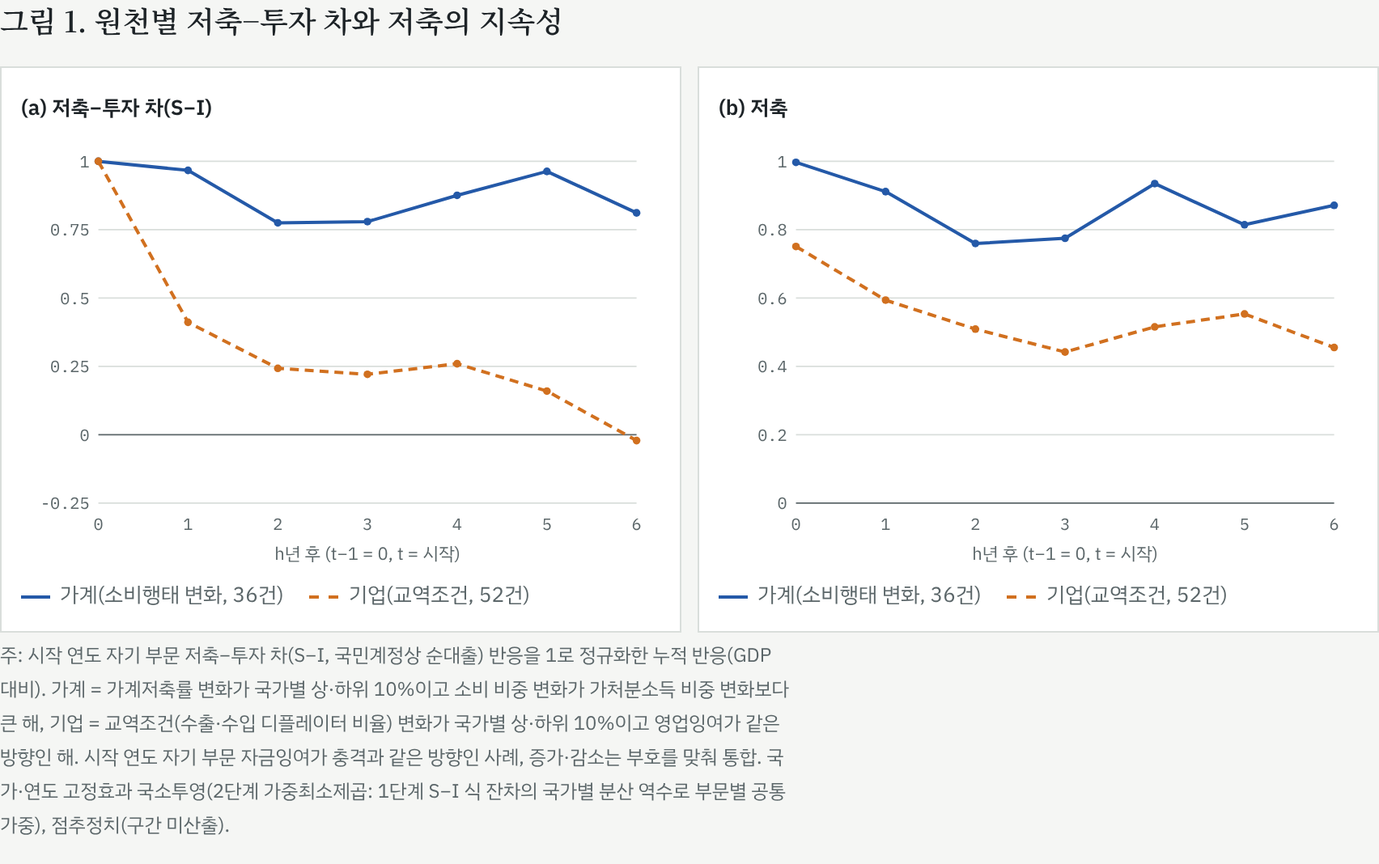
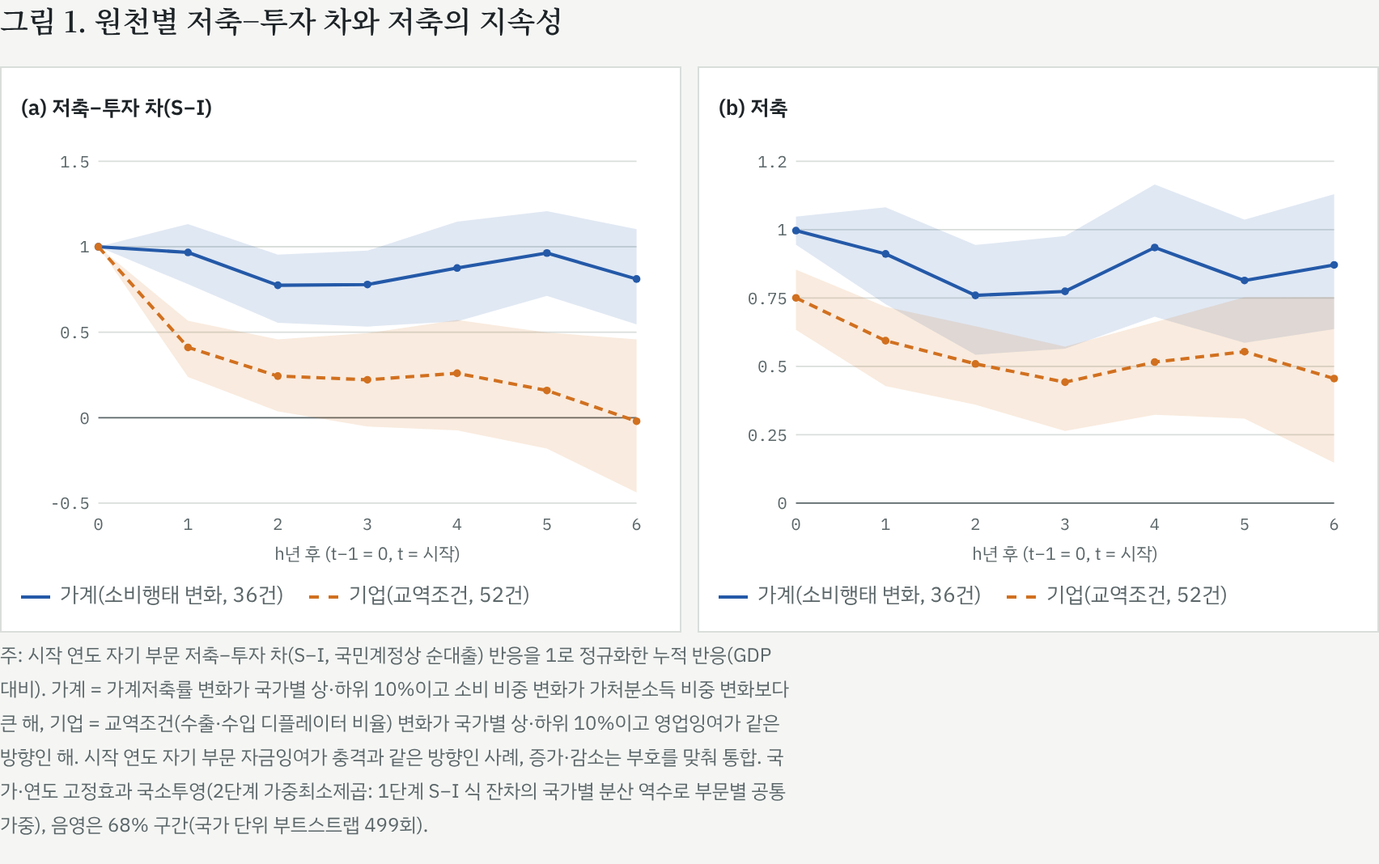
Finalize S−I-normalized report figures with bands (6- and 5-year)
Claude-Session: https://claude.ai/code/session_01QSFGVrqZTZBvgbV4CUsjF6

diff --git a/research/sector_saving_ca/output/ep_report_fgls_nl_figs.html b/research/sector_saving_ca/output/ep_report_fgls_nl_figs.html
@@ -82,4 +82,4 @@ footer { font-size: 13px; color: var(--muted); border-top: 1px solid var(--rule)
 svg .line.s1{stroke:#2459a8;fill:none;stroke-width:2.2} svg .band.s1{fill:#2459a8;opacity:.14} svg .dot.s1{fill:#2459a8}
 svg .line.s2{stroke:#d1701f;fill:none;stroke-width:2.2;stroke-dasharray:6 4} svg .band.s2{fill:#d1701f;opacity:.14} svg .dot.s2{fill:#d1701f}
 svg .line.s3{stroke:#3b8a4f;fill:none;stroke-width:2.2;stroke-dasharray:2 3} svg .dot.s3{fill:#3b8a4f}
-.sw.s1{border-color:#2459a8} .sw.s2{border-color:#d1701f;border-top-style:dashed} .sw.s3{border-color:#3b8a4f;border-top-style:dotted}</style></head><body><main style="max-width:900px"><section id="F1"><h2 style="font-size:18px">그림 1. 원천별 저축−투자 차와 저축의 지속성</h2><div style="display:grid;grid-template-columns:1fr 1fr;gap:10px"><figure><div class="panel-title">(a) 저축−투자 차(S−I)</div><svg viewBox="0 0 430 290" role="img" aria-label="(a) 저축−투자 차(S−I)"><line class="grid" x1="52" x2="414" y1="246.0" y2="246.0"/><text class="tick" x="46" y="250.0" text-anchor="end">-0.25</text><line class="zero" x1="52" x2="414" y1="200.0" y2="200.0"/><text class="tick" x="46" y="204.0" text-anchor="end">0</text><line class="grid" x1="52" x2="414" y1="154.0" y2="154.0"/><text class="tick" x="46" y="158.0" text-anchor="end">0.25</text><line class="grid" x1="52" x2="414" y1="108.0" y2="108.0"/><text class="tick" x="46" y="112.0" text-anchor="end">0.5</text><line class="grid" x1="52" x2="414" y1="62.0" y2="62.0"/><text class="tick" x="46" y="66.0" text-anchor="end">0.75</text><line class="grid" x1="52" x2="414" y1="16.0" y2="16.0"/><text class="tick" x="46" y="20.0" text-anchor="end">1</text><text class="tick" x="52.0" y="264" text-anchor="middle">0</text><text class="tick" x="112.3" y="264" text-anchor="middle">1</text><text class="tick" x="172.7" y="264" text-anchor="middle">2</text><text class="tick" x="233.0" y="264" text-anchor="middle">3</text><text class="tick" x="293.3" y="264" text-anchor="middle">4</text><text class="tick" x="353.7" y="264" text-anchor="middle">5</text><text class="tick" x="414.0" y="264" text-anchor="middle">6</text><text class="axis" x="233.0" y="284" text-anchor="middle">h년 후 (t−1 = 0, t = 시작)</text><polygon class="band s1" points="52.0,16.0 112.3,22.1 172.7,57.4 233.0,56.6 293.3,38.9 353.7,22.8 414.0,50.7 414.0,50.7 353.7,22.8 293.3,38.9 233.0,56.6 172.7,57.4 112.3,22.1 52.0,16.0"/><polygon class="band s2" points="52.0,16.0 112.3,124.3 172.7,155.3 233.0,159.3 293.3,152.2 353.7,170.6 414.0,203.9 414.0,203.9 353.7,170.6 293.3,152.2 233.0,159.3 172.7,155.3 112.3,124.3 52.0,16.0"/><polyline class="line s1" points="52.0,16.0 112.3,22.1 172.7,57.4 233.0,56.6 293.3,38.9 353.7,22.8 414.0,50.7"/><circle class="dot s1" cx="52.0" cy="16.0" r="2.6"/><circle class="dot s1" cx="112.3" cy="22.1" r="2.6"/><circle class="dot s1" cx="172.7" cy="57.4" r="2.6"/><circle class="dot s1" cx="233.0" cy="56.6" r="2.6"/><circle class="dot s1" cx="293.3" cy="38.9" r="2.6"/><circle class="dot s1" cx="353.7" cy="22.8" r="2.6"/><circle class="dot s1" cx="414.0" cy="50.7" r="2.6"/><polyline class="line s2" points="52.0,16.0 112.3,124.3 172.7,155.3 233.0,159.3 293.3,152.2 353.7,170.6 414.0,203.9"/><circle class="dot s2" cx="52.0" cy="16.0" r="2.6"/><circle class="dot s2" cx="112.3" cy="124.3" r="2.6"/><circle class="dot s2" cx="172.7" cy="155.3" r="2.6"/><circle class="dot s2" cx="233.0" cy="159.3" r="2.6"/><circle class="dot s2" cx="293.3" cy="152.2" r="2.6"/><circle class="dot s2" cx="353.7" cy="170.6" r="2.6"/><circle class="dot s2" cx="414.0" cy="203.9" r="2.6"/></svg><div class="legend"><span><i class="sw s1"></i>가계(소비행태 변화, 36건)</span><span><i class="sw s2"></i>기업(교역조건, 52건)</span></div></figure><figure><div class="panel-title">(b) 저축</div><svg viewBox="0 0 430 290" role="img" aria-label="(b) 저축"><line class="zero" x1="52" x2="414" y1="246.0" y2="246.0"/><text class="tick" x="46" y="250.0" text-anchor="end">0</text><line class="grid" x1="52" x2="414" y1="200.0" y2="200.0"/><text class="tick" x="46" y="204.0" text-anchor="end">0.2</text><line class="grid" x1="52" x2="414" y1="154.0" y2="154.0"/><text class="tick" x="46" y="158.0" text-anchor="end">0.4</text><line class="grid" x1="52" x2="414" y1="108.0" y2="108.0"/><text class="tick" x="46" y="112.0" text-anchor="end">0.6</text><line class="grid" x1="52" x2="414" y1="62.0" y2="62.0"/><text class="tick" x="46" y="66.0" text-anchor="end">0.8</text><line class="grid" x1="52" x2="414" y1="16.0" y2="16.0"/><text class="tick" x="46" y="20.0" text-anchor="end">1</text><text class="tick" x="52.0" y="264" text-anchor="middle">0</text><text class="tick" x="112.3" y="264" text-anchor="middle">1</text><text class="tick" x="172.7" y="264" text-anchor="middle">2</text><text class="tick" x="233.0" y="264" text-anchor="middle">3</text><text class="tick" x="293.3" y="264" text-anchor="middle">4</text><text class="tick" x="353.7" y="264" text-anchor="middle">5</text><text class="tick" x="414.0" y="264" text-anchor="middle">6</text><text class="axis" x="233.0" y="284" text-anchor="middle">h년 후 (t−1 = 0, t = 시작)</text><polygon class="band s1" points="52.0,16.7 112.3,36.4 172.7,71.3 233.0,67.8 293.3,31.0 353.7,58.7 414.0,45.6 414.0,45.6 353.7,58.7 293.3,31.0 233.0,67.8 172.7,71.3 112.3,36.4 52.0,16.7"/><polygon class="band s2" points="52.0,73.3 112.3,109.4 172.7,128.9 233.0,144.3 293.3,127.4 353.7,118.7 414.0,141.3 414.0,141.3 353.7,118.7 293.3,127.4 233.0,144.3 172.7,128.9 112.3,109.4 52.0,73.3"/><polyline class="line s1" points="52.0,16.7 112.3,36.4 172.7,71.3 233.0,67.8 293.3,31.0 353.7,58.7 414.0,45.6"/><circle class="dot s1" cx="52.0" cy="16.7" r="2.6"/><circle class="dot s1" cx="112.3" cy="36.4" r="2.6"/><circle class="dot s1" cx="172.7" cy="71.3" r="2.6"/><circle class="dot s1" cx="233.0" cy="67.8" r="2.6"/><circle class="dot s1" cx="293.3" cy="31.0" r="2.6"/><circle class="dot s1" cx="353.7" cy="58.7" r="2.6"/><circle class="dot s1" cx="414.0" cy="45.6" r="2.6"/><polyline class="line s2" points="52.0,73.3 112.3,109.4 172.7,128.9 233.0,144.3 293.3,127.4 353.7,118.7 414.0,141.3"/><circle class="dot s2" cx="52.0" cy="73.3" r="2.6"/><circle class="dot s2" cx="112.3" cy="109.4" r="2.6"/><circle class="dot s2" cx="172.7" cy="128.9" r="2.6"/><circle class="dot s2" cx="233.0" cy="144.3" r="2.6"/><circle class="dot s2" cx="293.3" cy="127.4" r="2.6"/><circle class="dot s2" cx="353.7" cy="118.7" r="2.6"/><circle class="dot s2" cx="414.0" cy="141.3" r="2.6"/></svg><div class="legend"><span><i class="sw s1"></i>가계(소비행태 변화, 36건)</span><span><i class="sw s2"></i>기업(교역조건, 52건)</span></div></figure></div><p class="ci" style="font-size:12px">주: 시작 연도 자기 부문 저축−투자 차(S−I, 국민계정상 순대출) 반응을 1로 정규화한 누적 반응(GDP 대비). 가계 = 가계저축률 변화가 국가별 상·하위 10%이고 소비 비중 변화가 가처분소득 비중 변화보다 큰 해, 기업 = 교역조건(수출·수입 디플레이터 비율) 변화가 국가별 상·하위 10%이고 영업잉여가 같은 방향인 해. 시작 연도 자기 부문 자금잉여가 충격과 같은 방향인 사례, 증가·감소는 부호를 맞춰 통합. 국가·연도 고정효과 국소투영(2단계 가중최소제곱: 1단계 S−I 식 잔차의 국가별 분산 역수로 부문별 공통 가중), 점추정치(구간 미산출).</p></section><section id="F2"><h2 style="font-size:18px">그림 2. 기업 흑자의 해소 경로(배당·투자)와 가계 소비행태</h2><div style="display:grid;grid-template-columns:1fr 1fr;gap:10px"><figure><div class="panel-title">(a) 기업: 영업잉여·순배당</div><svg viewBox="0 0 430 290" role="img" aria-label="(a) 기업: 영업잉여·순배당"><line class="grid" x1="52" x2="414" y1="246.0" y2="246.0"/><text class="tick" x="46" y="250.0" text-anchor="end">-0.25</text><line class="zero" x1="52" x2="414" y1="200.0" y2="200.0"/><text class="tick" x="46" y="204.0" text-anchor="end">0</text><line class="grid" x1="52" x2="414" y1="154.0" y2="154.0"/><text class="tick" x="46" y="158.0" text-anchor="end">0.25</text><line class="grid" x1="52" x2="414" y1="108.0" y2="108.0"/><text class="tick" x="46" y="112.0" text-anchor="end">0.5</text><line class="grid" x1="52" x2="414" y1="62.0" y2="62.0"/><text class="tick" x="46" y="66.0" text-anchor="end">0.75</text><line class="grid" x1="52" x2="414" y1="16.0" y2="16.0"/><text class="tick" x="46" y="20.0" text-anchor="end">1</text><text class="tick" x="52.0" y="264" text-anchor="middle">0</text><text class="tick" x="112.3" y="264" text-anchor="middle">1</text><text class="tick" x="172.7" y="264" text-anchor="middle">2</text><text class="tick" x="233.0" y="264" text-anchor="middle">3</text><text class="tick" x="293.3" y="264" text-anchor="middle">4</text><text class="tick" x="353.7" y="264" text-anchor="middle">5</text><text class="tick" x="414.0" y="264" text-anchor="middle">6</text><text class="axis" x="233.0" y="284" text-anchor="middle">h년 후 (t−1 = 0, t = 시작)</text><polygon class="band s1" points="52.0,49.0 112.3,84.3 172.7,91.8 233.0,110.6 293.3,65.5 353.7,54.7 414.0,90.9 414.0,90.9 353.7,54.7 293.3,65.5 233.0,110.6 172.7,91.8 112.3,84.3 52.0,49.0"/><polygon class="band s2" points="52.0,207.1 112.3,177.1 172.7,184.7 233.0,191.0 293.3,159.9 353.7,164.7 414.0,165.6 414.0,165.6 353.7,164.7 293.3,159.9 233.0,191.0 172.7,184.7 112.3,177.1 52.0,207.1"/><polyline class="line s1" points="52.0,49.0 112.3,84.3 172.7,91.8 233.0,110.6 293.3,65.5 353.7,54.7 414.0,90.9"/><circle class="dot s1" cx="52.0" cy="49.0" r="2.6"/><circle class="dot s1" cx="112.3" cy="84.3" r="2.6"/><circle class="dot s1" cx="172.7" cy="91.8" r="2.6"/><circle class="dot s1" cx="233.0" cy="110.6" r="2.6"/><circle class="dot s1" cx="293.3" cy="65.5" r="2.6"/><circle class="dot s1" cx="353.7" cy="54.7" r="2.6"/><circle class="dot s1" cx="414.0" cy="90.9" r="2.6"/><polyline class="line s2" points="52.0,207.1 112.3,177.1 172.7,184.7 233.0,191.0 293.3,159.9 353.7,164.7 414.0,165.6"/><circle class="dot s2" cx="52.0" cy="207.1" r="2.6"/><circle class="dot s2" cx="112.3" cy="177.1" r="2.6"/><circle class="dot s2" cx="172.7" cy="184.7" r="2.6"/><circle class="dot s2" cx="233.0" cy="191.0" r="2.6"/><circle class="dot s2" cx="293.3" cy="159.9" r="2.6"/><circle class="dot s2" cx="353.7" cy="164.7" r="2.6"/><circle class="dot s2" cx="414.0" cy="165.6" r="2.6"/></svg><div class="legend"><span><i class="sw s1"></i>영업잉여</span><span><i class="sw s2"></i>순배당 지급(지급 − 수취)</span></div></figure><figure><div class="panel-title">(b) 기업: 투자</div><svg viewBox="0 0 430 290" role="img" aria-label="(b) 기업: 투자"><line class="grid" x1="52" x2="414" y1="246.0" y2="246.0"/><text class="tick" x="46" y="250.0" text-anchor="end">-0.4</text><line class="grid" x1="52" x2="414" y1="200.0" y2="200.0"/><text class="tick" x="46" y="204.0" text-anchor="end">-0.2</text><line class="zero" x1="52" x2="414" y1="154.0" y2="154.0"/><text class="tick" x="46" y="158.0" text-anchor="end">0</text><line class="grid" x1="52" x2="414" y1="108.0" y2="108.0"/><text class="tick" x="46" y="112.0" text-anchor="end">0.2</text><line class="grid" x1="52" x2="414" y1="62.0" y2="62.0"/><text class="tick" x="46" y="66.0" text-anchor="end">0.4</text><line class="grid" x1="52" x2="414" y1="16.0" y2="16.0"/><text class="tick" x="46" y="20.0" text-anchor="end">0.6</text><text class="tick" x="52.0" y="264" text-anchor="middle">0</text><text class="tick" x="112.3" y="264" text-anchor="middle">1</text><text class="tick" x="172.7" y="264" text-anchor="middle">2</text><text class="tick" x="233.0" y="264" text-anchor="middle">3</text><text class="tick" x="293.3" y="264" text-anchor="middle">4</text><text class="tick" x="353.7" y="264" text-anchor="middle">5</text><text class="tick" x="414.0" y="264" text-anchor="middle">6</text><text class="axis" x="233.0" y="284" text-anchor="middle">h년 후 (t−1 = 0, t = 시작)</text><polygon class="band s1" points="52.0,211.3 112.3,112.0 172.7,92.8 233.0,103.2 293.3,95.1 353.7,63.4 414.0,44.4 414.0,44.4 353.7,63.4 293.3,95.1 233.0,103.2 172.7,92.8 112.3,112.0 52.0,211.3"/><polygon class="band s2" points="52.0,169.0 112.3,146.5 172.7,106.0 233.0,107.7 293.3,111.6 353.7,80.3 414.0,63.6 414.0,63.6 353.7,80.3 293.3,111.6 233.0,107.7 172.7,106.0 112.3,146.5 52.0,169.0"/><polyline class="line s1" points="52.0,211.3 112.3,112.0 172.7,92.8 233.0,103.2 293.3,95.1 353.7,63.4 414.0,44.4"/><circle class="dot s1" cx="52.0" cy="211.3" r="2.6"/><circle class="dot s1" cx="112.3" cy="112.0" r="2.6"/><circle class="dot s1" cx="172.7" cy="92.8" r="2.6"/><circle class="dot s1" cx="233.0" cy="103.2" r="2.6"/><circle class="dot s1" cx="293.3" cy="95.1" r="2.6"/><circle class="dot s1" cx="353.7" cy="63.4" r="2.6"/><circle class="dot s1" cx="414.0" cy="44.4" r="2.6"/><polyline class="line s2" points="52.0,169.0 112.3,146.5 172.7,106.0 233.0,107.7 293.3,111.6 353.7,80.3 414.0,63.6"/><circle class="dot s2" cx="52.0" cy="169.0" r="2.6"/><circle class="dot s2" cx="112.3" cy="146.5" r="2.6"/><circle class="dot s2" cx="172.7" cy="106.0" r="2.6"/><circle class="dot s2" cx="233.0" cy="107.7" r="2.6"/><circle class="dot s2" cx="293.3" cy="111.6" r="2.6"/><circle class="dot s2" cx="353.7" cy="80.3" r="2.6"/><circle class="dot s2" cx="414.0" cy="63.6" r="2.6"/></svg><div class="legend"><span><i class="sw s1"></i>투자 등(재고·토지 포함)</span><span><i class="sw s2"></i>고정투자</span></div></figure><figure><div class="panel-title">(c) 가계: 가처분소득·소비</div><svg viewBox="0 0 430 290" role="img" aria-label="(c) 가계: 가처분소득·소비"><line class="grid" x1="52" x2="414" y1="246.0" y2="246.0"/><text class="tick" x="46" y="250.0" text-anchor="end">-1</text><line class="grid" x1="52" x2="414" y1="207.7" y2="207.7"/><text class="tick" x="46" y="211.7" text-anchor="end">-0.75</text><line class="grid" x1="52" x2="414" y1="169.3" y2="169.3"/><text class="tick" x="46" y="173.3" text-anchor="end">-0.5</text><line class="grid" x1="52" x2="414" y1="131.0" y2="131.0"/><text class="tick" x="46" y="135.0" text-anchor="end">-0.25</text><line class="zero" x1="52" x2="414" y1="92.7" y2="92.7"/><text class="tick" x="46" y="96.7" text-anchor="end">0</text><line class="grid" x1="52" x2="414" y1="54.3" y2="54.3"/><text class="tick" x="46" y="58.3" text-anchor="end">0.25</text><line class="grid" x1="52" x2="414" y1="16.0" y2="16.0"/><text class="tick" x="46" y="20.0" text-anchor="end">0.5</text><text class="tick" x="52.0" y="264" text-anchor="middle">0</text><text class="tick" x="112.3" y="264" text-anchor="middle">1</text><text class="tick" x="172.7" y="264" text-anchor="middle">2</text><text class="tick" x="233.0" y="264" text-anchor="middle">3</text><text class="tick" x="293.3" y="264" text-anchor="middle">4</text><text class="tick" x="353.7" y="264" text-anchor="middle">5</text><text class="tick" x="414.0" y="264" text-anchor="middle">6</text><text class="axis" x="233.0" y="284" text-anchor="middle">h년 후 (t−1 = 0, t = 시작)</text><polygon class="band s1" points="52.0,70.4 112.3,77.1 172.7,86.5 233.0,79.1 293.3,35.7 353.7,50.8 414.0,65.3 414.0,65.3 353.7,50.8 293.3,35.7 233.0,79.1 172.7,86.5 112.3,77.1 52.0,70.4"/><polygon class="band s2" points="52.0,210.4 112.3,205.5 172.7,193.0 233.0,184.2 293.3,162.4 353.7,169.7 414.0,186.9 414.0,186.9 353.7,169.7 293.3,162.4 233.0,184.2 172.7,193.0 112.3,205.5 52.0,210.4"/><polyline class="line s1" points="52.0,70.4 112.3,77.1 172.7,86.5 233.0,79.1 293.3,35.7 353.7,50.8 414.0,65.3"/><circle class="dot s1" cx="52.0" cy="70.4" r="2.6"/><circle class="dot s1" cx="112.3" cy="77.1" r="2.6"/><circle class="dot s1" cx="172.7" cy="86.5" r="2.6"/><circle class="dot s1" cx="233.0" cy="79.1" r="2.6"/><circle class="dot s1" cx="293.3" cy="35.7" r="2.6"/><circle class="dot s1" cx="353.7" cy="50.8" r="2.6"/><circle class="dot s1" cx="414.0" cy="65.3" r="2.6"/><polyline class="line s2" points="52.0,210.4 112.3,205.5 172.7,193.0 233.0,184.2 293.3,162.4 353.7,169.7 414.0,186.9"/><circle class="dot s2" cx="52.0" cy="210.4" r="2.6"/><circle class="dot s2" cx="112.3" cy="205.5" r="2.6"/><circle class="dot s2" cx="172.7" cy="193.0" r="2.6"/><circle class="dot s2" cx="233.0" cy="184.2" r="2.6"/><circle class="dot s2" cx="293.3" cy="162.4" r="2.6"/><circle class="dot s2" cx="353.7" cy="169.7" r="2.6"/><circle class="dot s2" cx="414.0" cy="186.9" r="2.6"/></svg><div class="legend"><span><i class="sw s1"></i>가처분소득</span><span><i class="sw s2"></i>소비</span></div></figure><figure><div class="panel-title">(d) 가계: 투자</div><svg viewBox="0 0 430 290" role="img" aria-label="(d) 가계: 투자"><line class="grid" x1="52" x2="414" y1="246.0" y2="246.0"/><text class="tick" x="46" y="250.0" text-anchor="end">-0.3</text><line class="grid" x1="52" x2="414" y1="207.7" y2="207.7"/><text class="tick" x="46" y="211.7" text-anchor="end">-0.2</text><line class="grid" x1="52" x2="414" y1="169.3" y2="169.3"/><text class="tick" x="46" y="173.3" text-anchor="end">-0.1</text><line class="zero" x1="52" x2="414" y1="131.0" y2="131.0"/><text class="tick" x="46" y="135.0" text-anchor="end">0</text><line class="grid" x1="52" x2="414" y1="92.7" y2="92.7"/><text class="tick" x="46" y="96.7" text-anchor="end">0.1</text><line class="grid" x1="52" x2="414" y1="54.3" y2="54.3"/><text class="tick" x="46" y="58.3" text-anchor="end">0.2</text><line class="grid" x1="52" x2="414" y1="16.0" y2="16.0"/><text class="tick" x="46" y="20.0" text-anchor="end">0.3</text><text class="tick" x="52.0" y="264" text-anchor="middle">0</text><text class="tick" x="112.3" y="264" text-anchor="middle">1</text><text class="tick" x="172.7" y="264" text-anchor="middle">2</text><text class="tick" x="233.0" y="264" text-anchor="middle">3</text><text class="tick" x="293.3" y="264" text-anchor="middle">4</text><text class="tick" x="353.7" y="264" text-anchor="middle">5</text><text class="tick" x="414.0" y="264" text-anchor="middle">6</text><text class="axis" x="233.0" y="284" text-anchor="middle">h년 후 (t−1 = 0, t = 시작)</text><polygon class="band s1" points="52.0,132.2 112.3,152.3 172.7,136.9 233.0,132.9 293.3,108.4 353.7,188.1 414.0,108.1 414.0,108.1 353.7,188.1 293.3,108.4 233.0,132.9 172.7,136.9 112.3,152.3 52.0,132.2"/><polygon class="band s2" points="52.0,119.9 112.3,125.8 172.7,127.2 233.0,132.4 293.3,110.1 353.7,165.3 414.0,143.6 414.0,143.6 353.7,165.3 293.3,110.1 233.0,132.4 172.7,127.2 112.3,125.8 52.0,119.9"/><polyline class="line s1" points="52.0,132.2 112.3,152.3 172.7,136.9 233.0,132.9 293.3,108.4 353.7,188.1 414.0,108.1"/><circle class="dot s1" cx="52.0" cy="132.2" r="2.6"/><circle class="dot s1" cx="112.3" cy="152.3" r="2.6"/><circle class="dot s1" cx="172.7" cy="136.9" r="2.6"/><circle class="dot s1" cx="233.0" cy="132.9" r="2.6"/><circle class="dot s1" cx="293.3" cy="108.4" r="2.6"/><circle class="dot s1" cx="353.7" cy="188.1" r="2.6"/><circle class="dot s1" cx="414.0" cy="108.1" r="2.6"/><polyline class="line s2" points="52.0,119.9 112.3,125.8 172.7,127.2 233.0,132.4 293.3,110.1 353.7,165.3 414.0,143.6"/><circle class="dot s2" cx="52.0" cy="119.9" r="2.6"/><circle class="dot s2" cx="112.3" cy="125.8" r="2.6"/><circle class="dot s2" cx="172.7" cy="127.2" r="2.6"/><circle class="dot s2" cx="233.0" cy="132.4" r="2.6"/><circle class="dot s2" cx="293.3" cy="110.1" r="2.6"/><circle class="dot s2" cx="353.7" cy="165.3" r="2.6"/><circle class="dot s2" cx="414.0" cy="143.6" r="2.6"/></svg><div class="legend"><span><i class="sw s1"></i>투자 등(재고·토지 포함)</span><span><i class="sw s2"></i>고정투자</span></div></figure></div><p class="ci" style="font-size:12px">주: 시작 연도 자기 부문 저축−투자 차(S−I, 국민계정상 순대출) 반응을 1로 정규화한 누적 반응(GDP 대비). 가계 = 가계저축률 변화가 국가별 상·하위 10%이고 소비 비중 변화가 가처분소득 비중 변화보다 큰 해, 기업 = 교역조건(수출·수입 디플레이터 비율) 변화가 국가별 상·하위 10%이고 영업잉여가 같은 방향인 해. 시작 연도 자기 부문 자금잉여가 충격과 같은 방향인 사례, 증가·감소는 부호를 맞춰 통합. 국가·연도 고정효과 국소투영(2단계 가중최소제곱: 1단계 S−I 식 잔차의 국가별 분산 역수로 부문별 공통 가중), 점추정치(구간 미산출).</p></section></main></body></html>
+.sw.s1{border-color:#2459a8} .sw.s2{border-color:#d1701f;border-top-style:dashed} .sw.s3{border-color:#3b8a4f;border-top-style:dotted}</style></head><body><main style="max-width:900px"><section id="F1"><h2 style="font-size:18px">그림 1. 원천별 저축−투자 차와 저축의 지속성</h2><div style="display:grid;grid-template-columns:1fr 1fr;gap:10px"><figure><div class="panel-title">(a) 저축−투자 차(S−I)</div><svg viewBox="0 0 430 290" role="img" aria-label="(a) 저축−투자 차(S−I)"><line class="grid" x1="52" x2="414" y1="246.0" y2="246.0"/><text class="tick" x="46" y="250.0" text-anchor="end">-0.5</text><line class="zero" x1="52" x2="414" y1="188.5" y2="188.5"/><text class="tick" x="46" y="192.5" text-anchor="end">0</text><line class="grid" x1="52" x2="414" y1="131.0" y2="131.0"/><text class="tick" x="46" y="135.0" text-anchor="end">0.5</text><line class="grid" x1="52" x2="414" y1="73.5" y2="73.5"/><text class="tick" x="46" y="77.5" text-anchor="end">1</text><line class="grid" x1="52" x2="414" y1="16.0" y2="16.0"/><text class="tick" x="46" y="20.0" text-anchor="end">1.5</text><text class="tick" x="52.0" y="264" text-anchor="middle">0</text><text class="tick" x="112.3" y="264" text-anchor="middle">1</text><text class="tick" x="172.7" y="264" text-anchor="middle">2</text><text class="tick" x="233.0" y="264" text-anchor="middle">3</text><text class="tick" x="293.3" y="264" text-anchor="middle">4</text><text class="tick" x="353.7" y="264" text-anchor="middle">5</text><text class="tick" x="414.0" y="264" text-anchor="middle">6</text><text class="axis" x="233.0" y="284" text-anchor="middle">h년 후 (t−1 = 0, t = 시작)</text><polygon class="band s1" points="52.0,73.5 112.3,58.2 172.7,78.8 233.0,76.1 293.3,56.6 353.7,49.5 414.0,61.7 414.0,125.7 353.7,106.5 293.3,123.7 233.0,127.2 172.7,124.7 112.3,98.7 52.0,73.5"/><polygon class="band s2" points="52.0,73.5 112.3,123.3 172.7,135.8 233.0,131.6 293.3,122.7 353.7,131.2 414.0,135.8 414.0,238.8 353.7,209.3 293.3,197.0 233.0,194.4 172.7,184.3 112.3,161.1 52.0,73.5"/><polyline class="line s1" points="52.0,73.5 112.3,77.3 172.7,99.4 233.0,98.9 293.3,87.8 353.7,77.7 414.0,95.2"/><circle class="dot s1" cx="52.0" cy="73.5" r="2.6"/><circle class="dot s1" cx="112.3" cy="77.3" r="2.6"/><circle class="dot s1" cx="172.7" cy="99.4" r="2.6"/><circle class="dot s1" cx="233.0" cy="98.9" r="2.6"/><circle class="dot s1" cx="293.3" cy="87.8" r="2.6"/><circle class="dot s1" cx="353.7" cy="77.7" r="2.6"/><circle class="dot s1" cx="414.0" cy="95.2" r="2.6"/><polyline class="line s2" points="52.0,73.5 112.3,141.2 172.7,160.5 233.0,163.0 293.3,158.6 353.7,170.2 414.0,190.9"/><circle class="dot s2" cx="52.0" cy="73.5" r="2.6"/><circle class="dot s2" cx="112.3" cy="141.2" r="2.6"/><circle class="dot s2" cx="172.7" cy="160.5" r="2.6"/><circle class="dot s2" cx="233.0" cy="163.0" r="2.6"/><circle class="dot s2" cx="293.3" cy="158.6" r="2.6"/><circle class="dot s2" cx="353.7" cy="170.2" r="2.6"/><circle class="dot s2" cx="414.0" cy="190.9" r="2.6"/></svg><div class="legend"><span><i class="sw s1"></i>가계(소비행태 변화, 36건)</span><span><i class="sw s2"></i>기업(교역조건, 52건)</span></div></figure><figure><div class="panel-title">(b) 저축</div><svg viewBox="0 0 430 290" role="img" aria-label="(b) 저축"><line class="zero" x1="52" x2="414" y1="246.0" y2="246.0"/><text class="tick" x="46" y="250.0" text-anchor="end">0</text><line class="grid" x1="52" x2="414" y1="200.0" y2="200.0"/><text class="tick" x="46" y="204.0" text-anchor="end">0.25</text><line class="grid" x1="52" x2="414" y1="154.0" y2="154.0"/><text class="tick" x="46" y="158.0" text-anchor="end">0.5</text><line class="grid" x1="52" x2="414" y1="108.0" y2="108.0"/><text class="tick" x="46" y="112.0" text-anchor="end">0.75</text><line class="grid" x1="52" x2="414" y1="62.0" y2="62.0"/><text class="tick" x="46" y="66.0" text-anchor="end">1</text><line class="grid" x1="52" x2="414" y1="16.0" y2="16.0"/><text class="tick" x="46" y="20.0" text-anchor="end">1.2</text><text class="tick" x="52.0" y="264" text-anchor="middle">0</text><text class="tick" x="112.3" y="264" text-anchor="middle">1</text><text class="tick" x="172.7" y="264" text-anchor="middle">2</text><text class="tick" x="233.0" y="264" text-anchor="middle">3</text><text class="tick" x="293.3" y="264" text-anchor="middle">4</text><text class="tick" x="353.7" y="264" text-anchor="middle">5</text><text class="tick" x="414.0" y="264" text-anchor="middle">6</text><text class="axis" x="233.0" y="284" text-anchor="middle">h년 후 (t−1 = 0, t = 시작)</text><polygon class="band s1" points="52.0,53.2 112.3,47.0 172.7,72.3 233.0,66.3 293.3,31.6 353.7,55.2 414.0,38.1 414.0,128.8 353.7,138.1 293.3,120.6 233.0,142.0 172.7,146.1 112.3,112.1 52.0,72.1"/><polygon class="band s2" points="52.0,88.8 112.3,113.9 172.7,127.0 233.0,140.7 293.3,124.2 353.7,107.5 414.0,107.4 414.0,218.8 353.7,189.1 293.3,186.5 233.0,197.5 172.7,179.8 112.3,167.2 52.0,129.4"/><polyline class="line s1" points="52.0,62.6 112.3,78.3 172.7,106.2 233.0,103.5 293.3,74.0 353.7,96.2 414.0,85.7"/><circle class="dot s1" cx="52.0" cy="62.6" r="2.6"/><circle class="dot s1" cx="112.3" cy="78.3" r="2.6"/><circle class="dot s1" cx="172.7" cy="106.2" r="2.6"/><circle class="dot s1" cx="233.0" cy="103.5" r="2.6"/><circle class="dot s1" cx="293.3" cy="74.0" r="2.6"/><circle class="dot s1" cx="353.7" cy="96.2" r="2.6"/><circle class="dot s1" cx="414.0" cy="85.7" r="2.6"/><polyline class="line s2" points="52.0,107.9 112.3,136.7 172.7,152.3 233.0,164.6 293.3,151.1 353.7,144.1 414.0,162.2"/><circle class="dot s2" cx="52.0" cy="107.9" r="2.6"/><circle class="dot s2" cx="112.3" cy="136.7" r="2.6"/><circle class="dot s2" cx="172.7" cy="152.3" r="2.6"/><circle class="dot s2" cx="233.0" cy="164.6" r="2.6"/><circle class="dot s2" cx="293.3" cy="151.1" r="2.6"/><circle class="dot s2" cx="353.7" cy="144.1" r="2.6"/><circle class="dot s2" cx="414.0" cy="162.2" r="2.6"/></svg><div class="legend"><span><i class="sw s1"></i>가계(소비행태 변화, 36건)</span><span><i class="sw s2"></i>기업(교역조건, 52건)</span></div></figure></div><p class="ci" style="font-size:12px">주: 시작 연도 자기 부문 저축−투자 차(S−I, 국민계정상 순대출) 반응을 1로 정규화한 누적 반응(GDP 대비). 가계 = 가계저축률 변화가 국가별 상·하위 10%이고 소비 비중 변화가 가처분소득 비중 변화보다 큰 해, 기업 = 교역조건(수출·수입 디플레이터 비율) 변화가 국가별 상·하위 10%이고 영업잉여가 같은 방향인 해. 시작 연도 자기 부문 자금잉여가 충격과 같은 방향인 사례, 증가·감소는 부호를 맞춰 통합. 국가·연도 고정효과 국소투영(2단계 가중최소제곱: 1단계 S−I 식 잔차의 국가별 분산 역수로 부문별 공통 가중), 음영은 68% 구간(국가 단위 부트스트랩 499회).</p></section><section id="F2"><h2 style="font-size:18px">그림 2. 기업 흑자의 해소 경로(배당·투자)와 가계 소비행태</h2><div style="display:grid;grid-template-columns:1fr 1fr;gap:10px"><figure><div class="panel-title">(a) 기업: 영업잉여·순배당</div><svg viewBox="0 0 430 290" role="img" aria-label="(a) 기업: 영업잉여·순배당"><line class="grid" x1="52" x2="414" y1="246.0" y2="246.0"/><text class="tick" x="46" y="250.0" text-anchor="end">-0.25</text><line class="zero" x1="52" x2="414" y1="207.7" y2="207.7"/><text class="tick" x="46" y="211.7" text-anchor="end">0</text><line class="grid" x1="52" x2="414" y1="169.3" y2="169.3"/><text class="tick" x="46" y="173.3" text-anchor="end">0.25</text><line class="grid" x1="52" x2="414" y1="131.0" y2="131.0"/><text class="tick" x="46" y="135.0" text-anchor="end">0.5</text><line class="grid" x1="52" x2="414" y1="92.7" y2="92.7"/><text class="tick" x="46" y="96.7" text-anchor="end">0.75</text><line class="grid" x1="52" x2="414" y1="54.3" y2="54.3"/><text class="tick" x="46" y="58.3" text-anchor="end">1</text><line class="grid" x1="52" x2="414" y1="16.0" y2="16.0"/><text class="tick" x="46" y="20.0" text-anchor="end">1.2</text><text class="tick" x="52.0" y="264" text-anchor="middle">0</text><text class="tick" x="112.3" y="264" text-anchor="middle">1</text><text class="tick" x="172.7" y="264" text-anchor="middle">2</text><text class="tick" x="233.0" y="264" text-anchor="middle">3</text><text class="tick" x="293.3" y="264" text-anchor="middle">4</text><text class="tick" x="353.7" y="264" text-anchor="middle">5</text><text class="tick" x="414.0" y="264" text-anchor="middle">6</text><text class="axis" x="233.0" y="284" text-anchor="middle">h년 후 (t−1 = 0, t = 시작)</text><polygon class="band s1" points="52.0,58.8 112.3,90.2 172.7,92.8 233.0,101.9 293.3,60.5 353.7,46.1 414.0,73.5 414.0,153.1 353.7,127.9 293.3,132.0 233.0,168.7 172.7,145.8 112.3,138.4 52.0,106.5"/><polygon class="band s2" points="52.0,201.2 112.3,173.0 172.7,175.8 233.0,181.1 293.3,151.1 353.7,158.1 414.0,153.0 414.0,198.7 353.7,194.1 293.3,192.8 233.0,219.3 172.7,213.9 112.3,205.5 52.0,229.5"/><polyline class="line s1" points="52.0,81.8 112.3,111.2 172.7,117.5 233.0,133.2 293.3,95.6 353.7,86.6 414.0,116.8"/><circle class="dot s1" cx="52.0" cy="81.8" r="2.6"/><circle class="dot s1" cx="112.3" cy="111.2" r="2.6"/><circle class="dot s1" cx="172.7" cy="117.5" r="2.6"/><circle class="dot s1" cx="233.0" cy="133.2" r="2.6"/><circle class="dot s1" cx="293.3" cy="95.6" r="2.6"/><circle class="dot s1" cx="353.7" cy="86.6" r="2.6"/><circle class="dot s1" cx="414.0" cy="116.8" r="2.6"/><polyline class="line s2" points="52.0,213.6 112.3,188.6 172.7,194.9 233.0,200.2 293.3,174.2 353.7,178.3 414.0,179.0"/><circle class="dot s2" cx="52.0" cy="213.6" r="2.6"/><circle class="dot s2" cx="112.3" cy="188.6" r="2.6"/><circle class="dot s2" cx="172.7" cy="194.9" r="2.6"/><circle class="dot s2" cx="233.0" cy="200.2" r="2.6"/><circle class="dot s2" cx="293.3" cy="174.2" r="2.6"/><circle class="dot s2" cx="353.7" cy="178.3" r="2.6"/><circle class="dot s2" cx="414.0" cy="179.0" r="2.6"/></svg><div class="legend"><span><i class="sw s1"></i>영업잉여</span><span><i class="sw s2"></i>순배당 지급(지급 − 수취)</span></div></figure><figure><div class="panel-title">(b) 기업: 투자</div><svg viewBox="0 0 430 290" role="img" aria-label="(b) 기업: 투자"><line class="grid" x1="52" x2="414" y1="246.0" y2="246.0"/><text class="tick" x="46" y="250.0" text-anchor="end">-0.5</text><line class="grid" x1="52" x2="414" y1="207.7" y2="207.7"/><text class="tick" x="46" y="211.7" text-anchor="end">-0.25</text><line class="zero" x1="52" x2="414" y1="169.3" y2="169.3"/><text class="tick" x="46" y="173.3" text-anchor="end">0</text><line class="grid" x1="52" x2="414" y1="131.0" y2="131.0"/><text class="tick" x="46" y="135.0" text-anchor="end">0.25</text><line class="grid" x1="52" x2="414" y1="92.7" y2="92.7"/><text class="tick" x="46" y="96.7" text-anchor="end">0.5</text><line class="grid" x1="52" x2="414" y1="54.3" y2="54.3"/><text class="tick" x="46" y="58.3" text-anchor="end">0.75</text><line class="grid" x1="52" x2="414" y1="16.0" y2="16.0"/><text class="tick" x="46" y="20.0" text-anchor="end">1</text><text class="tick" x="52.0" y="264" text-anchor="middle">0</text><text class="tick" x="112.3" y="264" text-anchor="middle">1</text><text class="tick" x="172.7" y="264" text-anchor="middle">2</text><text class="tick" x="233.0" y="264" text-anchor="middle">3</text><text class="tick" x="293.3" y="264" text-anchor="middle">4</text><text class="tick" x="353.7" y="264" text-anchor="middle">5</text><text class="tick" x="414.0" y="264" text-anchor="middle">6</text><text class="axis" x="233.0" y="284" text-anchor="middle">h년 후 (t−1 = 0, t = 시작)</text><polygon class="band s1" points="52.0,191.7 112.3,104.8 172.7,96.2 233.0,99.4 293.3,91.3 353.7,66.6 414.0,49.7 414.0,142.2 353.7,148.5 293.3,170.1 233.0,174.6 172.7,165.6 112.3,180.3 52.0,225.5"/><polygon class="band s2" points="52.0,169.9 112.3,144.4 172.7,114.1 233.0,114.2 293.3,114.0 353.7,89.1 414.0,77.9 414.0,138.2 353.7,149.7 293.3,171.4 233.0,171.6 172.7,166.6 112.3,185.8 52.0,188.1"/><polyline class="line s1" points="52.0,207.6 112.3,141.4 172.7,128.5 233.0,135.5 293.3,130.1 353.7,108.9 414.0,96.3"/><circle class="dot s1" cx="52.0" cy="207.6" r="2.6"/><circle class="dot s1" cx="112.3" cy="141.4" r="2.6"/><circle class="dot s1" cx="172.7" cy="128.5" r="2.6"/><circle class="dot s1" cx="233.0" cy="135.5" r="2.6"/><circle class="dot s1" cx="293.3" cy="130.1" r="2.6"/><circle class="dot s1" cx="353.7" cy="108.9" r="2.6"/><circle class="dot s1" cx="414.0" cy="96.3" r="2.6"/><polyline class="line s2" points="52.0,179.3 112.3,164.4 172.7,137.3 233.0,138.5 293.3,141.1 353.7,120.2 414.0,109.1"/><circle class="dot s2" cx="52.0" cy="179.3" r="2.6"/><circle class="dot s2" cx="112.3" cy="164.4" r="2.6"/><circle class="dot s2" cx="172.7" cy="137.3" r="2.6"/><circle class="dot s2" cx="233.0" cy="138.5" r="2.6"/><circle class="dot s2" cx="293.3" cy="141.1" r="2.6"/><circle class="dot s2" cx="353.7" cy="120.2" r="2.6"/><circle class="dot s2" cx="414.0" cy="109.1" r="2.6"/></svg><div class="legend"><span><i class="sw s1"></i>투자 등(재고·토지 포함)</span><span><i class="sw s2"></i>고정투자</span></div></figure><figure><div class="panel-title">(c) 가계: 가처분소득·소비</div><svg viewBox="0 0 430 290" role="img" aria-label="(c) 가계: 가처분소득·소비"><line class="grid" x1="52" x2="414" y1="246.0" y2="246.0"/><text class="tick" x="46" y="250.0" text-anchor="end">-1</text><line class="grid" x1="52" x2="414" y1="188.5" y2="188.5"/><text class="tick" x="46" y="192.5" text-anchor="end">-0.5</text><line class="zero" x1="52" x2="414" y1="131.0" y2="131.0"/><text class="tick" x="46" y="135.0" text-anchor="end">0</text><line class="grid" x1="52" x2="414" y1="73.5" y2="73.5"/><text class="tick" x="46" y="77.5" text-anchor="end">0.5</text><line class="grid" x1="52" x2="414" y1="16.0" y2="16.0"/><text class="tick" x="46" y="20.0" text-anchor="end">1</text><text class="tick" x="52.0" y="264" text-anchor="middle">0</text><text class="tick" x="112.3" y="264" text-anchor="middle">1</text><text class="tick" x="172.7" y="264" text-anchor="middle">2</text><text class="tick" x="233.0" y="264" text-anchor="middle">3</text><text class="tick" x="293.3" y="264" text-anchor="middle">4</text><text class="tick" x="353.7" y="264" text-anchor="middle">5</text><text class="tick" x="414.0" y="264" text-anchor="middle">6</text><text class="axis" x="233.0" y="284" text-anchor="middle">h년 후 (t−1 = 0, t = 시작)</text><polygon class="band s1" points="52.0,106.3 112.3,98.5 172.7,102.9 233.0,93.8 293.3,55.6 353.7,59.7 414.0,59.1 414.0,154.4 353.7,138.2 293.3,122.5 233.0,147.0 172.7,151.7 112.3,138.5 52.0,123.5"/><polygon class="band s2" points="52.0,209.6 112.3,197.4 172.7,180.0 233.0,173.9 293.3,156.9 353.7,156.8 414.0,165.7 414.0,235.1 353.7,218.5 293.3,209.9 233.0,224.8 172.7,232.9 112.3,233.1 52.0,229.2"/><polyline class="line s1" points="52.0,114.3 112.3,119.3 172.7,126.4 233.0,120.8 293.3,88.3 353.7,99.6 414.0,110.5"/><circle class="dot s1" cx="52.0" cy="114.3" r="2.6"/><circle class="dot s1" cx="112.3" cy="119.3" r="2.6"/><circle class="dot s1" cx="172.7" cy="126.4" r="2.6"/><circle class="dot s1" cx="233.0" cy="120.8" r="2.6"/><circle class="dot s1" cx="293.3" cy="88.3" r="2.6"/><circle class="dot s1" cx="353.7" cy="99.6" r="2.6"/><circle class="dot s1" cx="414.0" cy="110.5" r="2.6"/><polyline class="line s2" points="52.0,219.3 112.3,215.6 172.7,206.2 233.0,199.6 293.3,183.3 353.7,188.8 414.0,201.7"/><circle class="dot s2" cx="52.0" cy="219.3" r="2.6"/><circle class="dot s2" cx="112.3" cy="215.6" r="2.6"/><circle class="dot s2" cx="172.7" cy="206.2" r="2.6"/><circle class="dot s2" cx="233.0" cy="199.6" r="2.6"/><circle class="dot s2" cx="293.3" cy="183.3" r="2.6"/><circle class="dot s2" cx="353.7" cy="188.8" r="2.6"/><circle class="dot s2" cx="414.0" cy="201.7" r="2.6"/></svg><div class="legend"><span><i class="sw s1"></i>가처분소득</span><span><i class="sw s2"></i>소비</span></div></figure><figure><div class="panel-title">(d) 가계: 투자</div><svg viewBox="0 0 430 290" role="img" aria-label="(d) 가계: 투자"><line class="grid" x1="52" x2="414" y1="246.0" y2="246.0"/><text class="tick" x="46" y="250.0" text-anchor="end">-0.6</text><line class="grid" x1="52" x2="414" y1="207.7" y2="207.7"/><text class="tick" x="46" y="211.7" text-anchor="end">-0.4</text><line class="grid" x1="52" x2="414" y1="169.3" y2="169.3"/><text class="tick" x="46" y="173.3" text-anchor="end">-0.2</text><line class="zero" x1="52" x2="414" y1="131.0" y2="131.0"/><text class="tick" x="46" y="135.0" text-anchor="end">0</text><line class="grid" x1="52" x2="414" y1="92.7" y2="92.7"/><text class="tick" x="46" y="96.7" text-anchor="end">0.2</text><line class="grid" x1="52" x2="414" y1="54.3" y2="54.3"/><text class="tick" x="46" y="58.3" text-anchor="end">0.4</text><line class="grid" x1="52" x2="414" y1="16.0" y2="16.0"/><text class="tick" x="46" y="20.0" text-anchor="end">0.6</text><text class="tick" x="52.0" y="264" text-anchor="middle">0</text><text class="tick" x="112.3" y="264" text-anchor="middle">1</text><text class="tick" x="172.7" y="264" text-anchor="middle">2</text><text class="tick" x="233.0" y="264" text-anchor="middle">3</text><text class="tick" x="293.3" y="264" text-anchor="middle">4</text><text class="tick" x="353.7" y="264" text-anchor="middle">5</text><text class="tick" x="414.0" y="264" text-anchor="middle">6</text><text class="axis" x="233.0" y="284" text-anchor="middle">h년 후 (t−1 = 0, t = 시작)</text><polygon class="band s1" points="52.0,121.8 112.3,119.5 172.7,107.9 233.0,101.5 293.3,89.2 353.7,133.7 414.0,82.6 414.0,155.0 353.7,182.9 293.3,143.3 233.0,153.8 172.7,157.1 112.3,159.3 52.0,141.5"/><polygon class="band s2" points="52.0,117.5 112.3,108.6 172.7,103.8 233.0,101.0 293.3,89.1 353.7,123.0 414.0,102.3 414.0,167.2 353.7,169.9 293.3,143.1 233.0,154.7 172.7,148.4 112.3,141.5 52.0,132.6"/><polyline class="line s1" points="52.0,131.6 112.3,141.7 172.7,133.9 233.0,131.9 293.3,119.7 353.7,159.5 414.0,119.5"/><circle class="dot s1" cx="52.0" cy="131.6" r="2.6"/><circle class="dot s1" cx="112.3" cy="141.7" r="2.6"/><circle class="dot s1" cx="172.7" cy="133.9" r="2.6"/><circle class="dot s1" cx="233.0" cy="131.9" r="2.6"/><circle class="dot s1" cx="293.3" cy="119.7" r="2.6"/><circle class="dot s1" cx="353.7" cy="159.5" r="2.6"/><circle class="dot s1" cx="414.0" cy="119.5" r="2.6"/><polyline class="line s2" points="52.0,125.4 112.3,128.4 172.7,129.1 233.0,131.7 293.3,120.6 353.7,148.2 414.0,137.3"/><circle class="dot s2" cx="52.0" cy="125.4" r="2.6"/><circle class="dot s2" cx="112.3" cy="128.4" r="2.6"/><circle class="dot s2" cx="172.7" cy="129.1" r="2.6"/><circle class="dot s2" cx="233.0" cy="131.7" r="2.6"/><circle class="dot s2" cx="293.3" cy="120.6" r="2.6"/><circle class="dot s2" cx="353.7" cy="148.2" r="2.6"/><circle class="dot s2" cx="414.0" cy="137.3" r="2.6"/></svg><div class="legend"><span><i class="sw s1"></i>투자 등(재고·토지 포함)</span><span><i class="sw s2"></i>고정투자</span></div></figure></div><p class="ci" style="font-size:12px">주: 시작 연도 자기 부문 저축−투자 차(S−I, 국민계정상 순대출) 반응을 1로 정규화한 누적 반응(GDP 대비). 가계 = 가계저축률 변화가 국가별 상·하위 10%이고 소비 비중 변화가 가처분소득 비중 변화보다 큰 해, 기업 = 교역조건(수출·수입 디플레이터 비율) 변화가 국가별 상·하위 10%이고 영업잉여가 같은 방향인 해. 시작 연도 자기 부문 자금잉여가 충격과 같은 방향인 사례, 증가·감소는 부호를 맞춰 통합. 국가·연도 고정효과 국소투영(2단계 가중최소제곱: 1단계 S−I 식 잔차의 국가별 분산 역수로 부문별 공통 가중), 음영은 68% 구간(국가 단위 부트스트랩 499회).</p></section></main></body></html>
